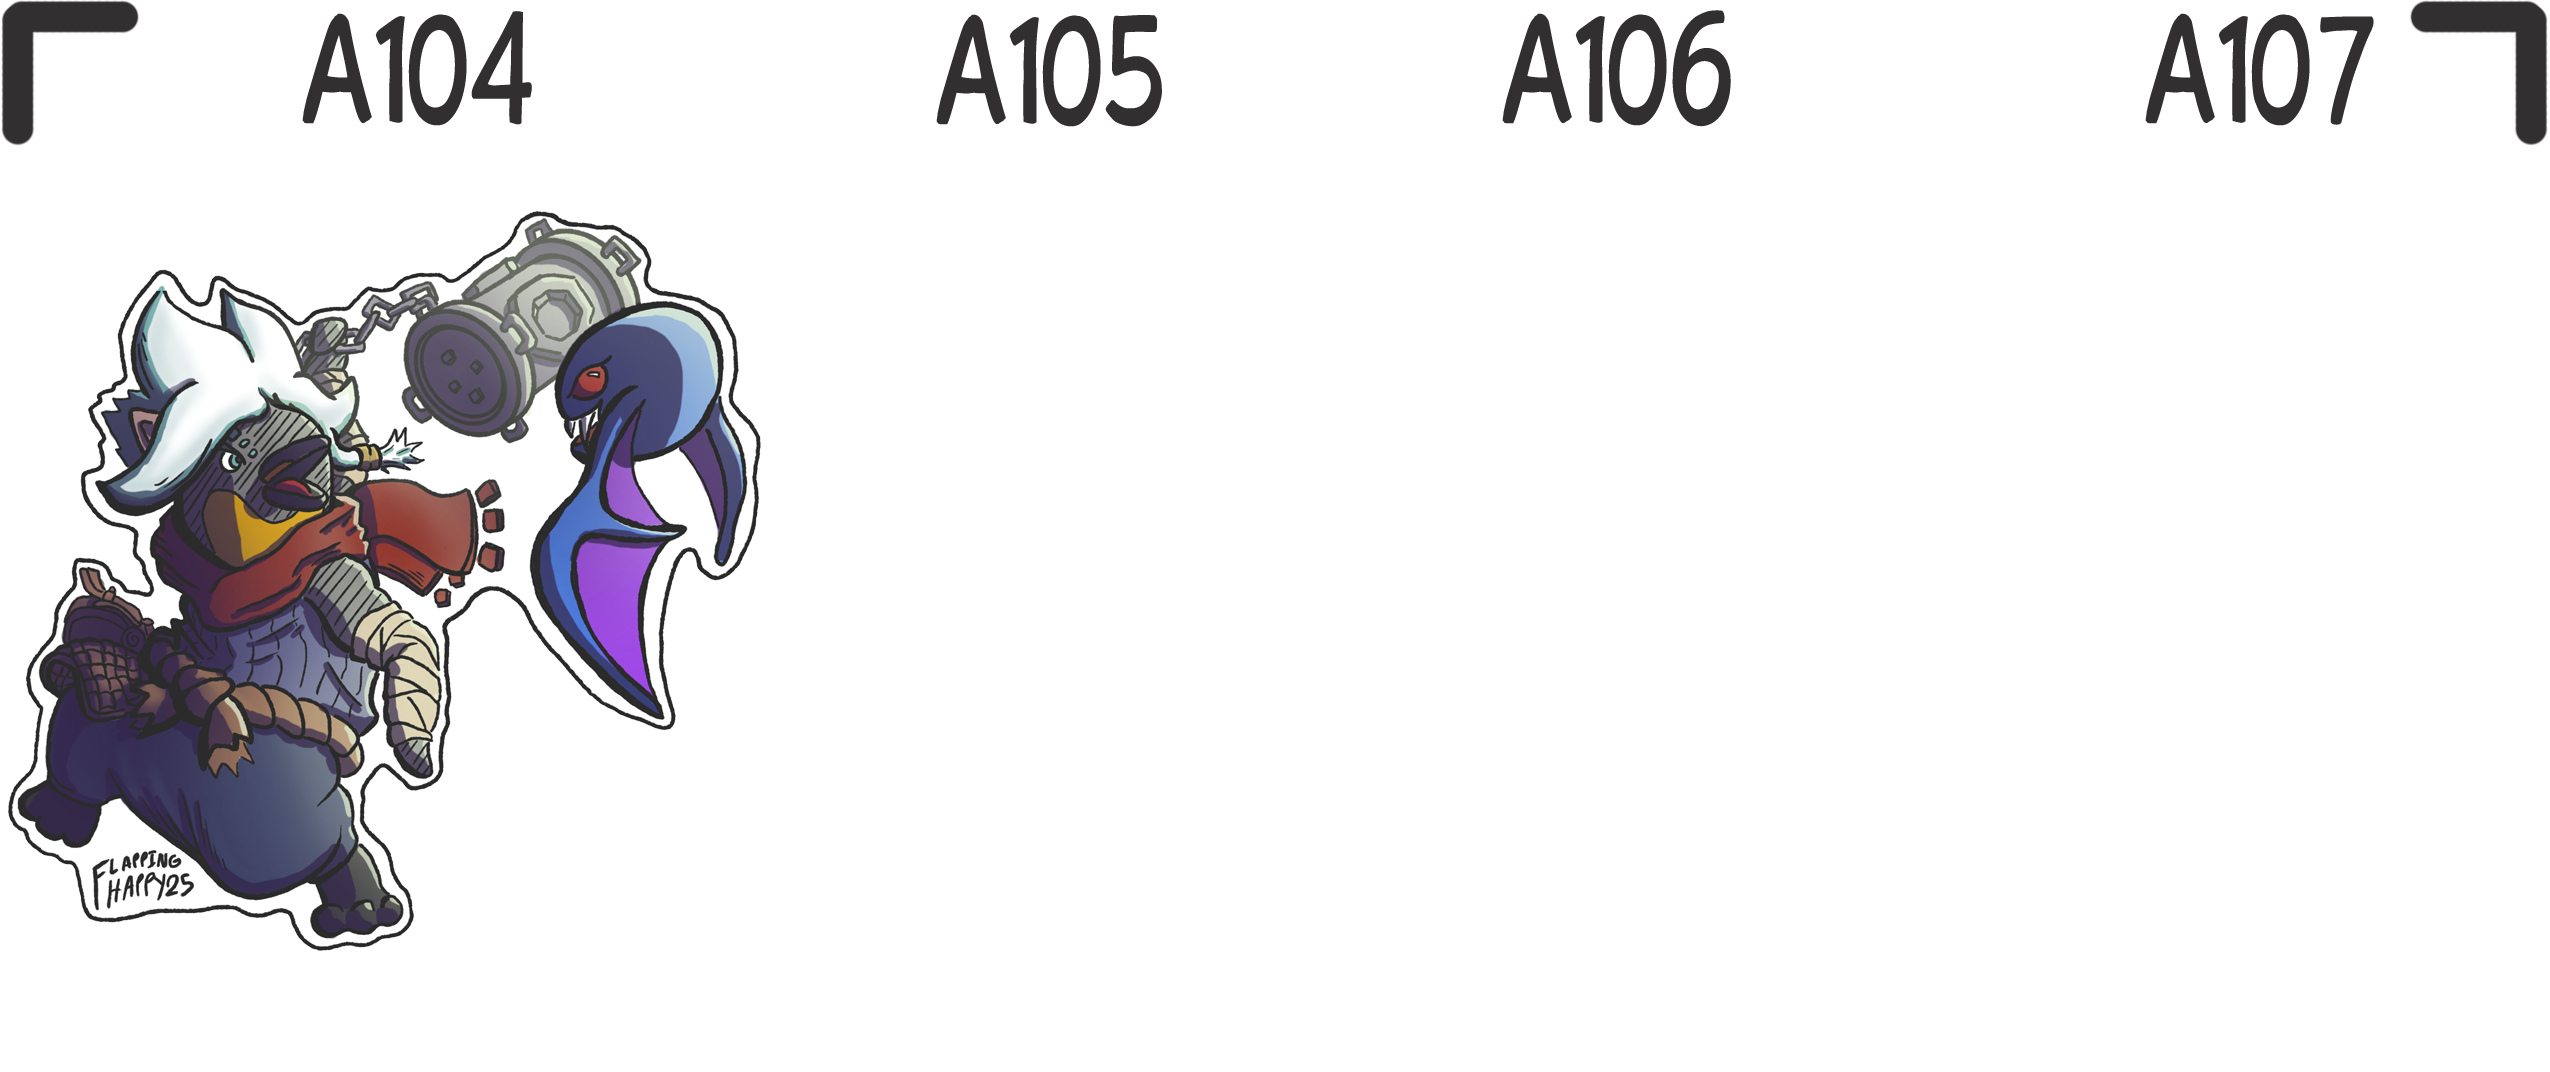
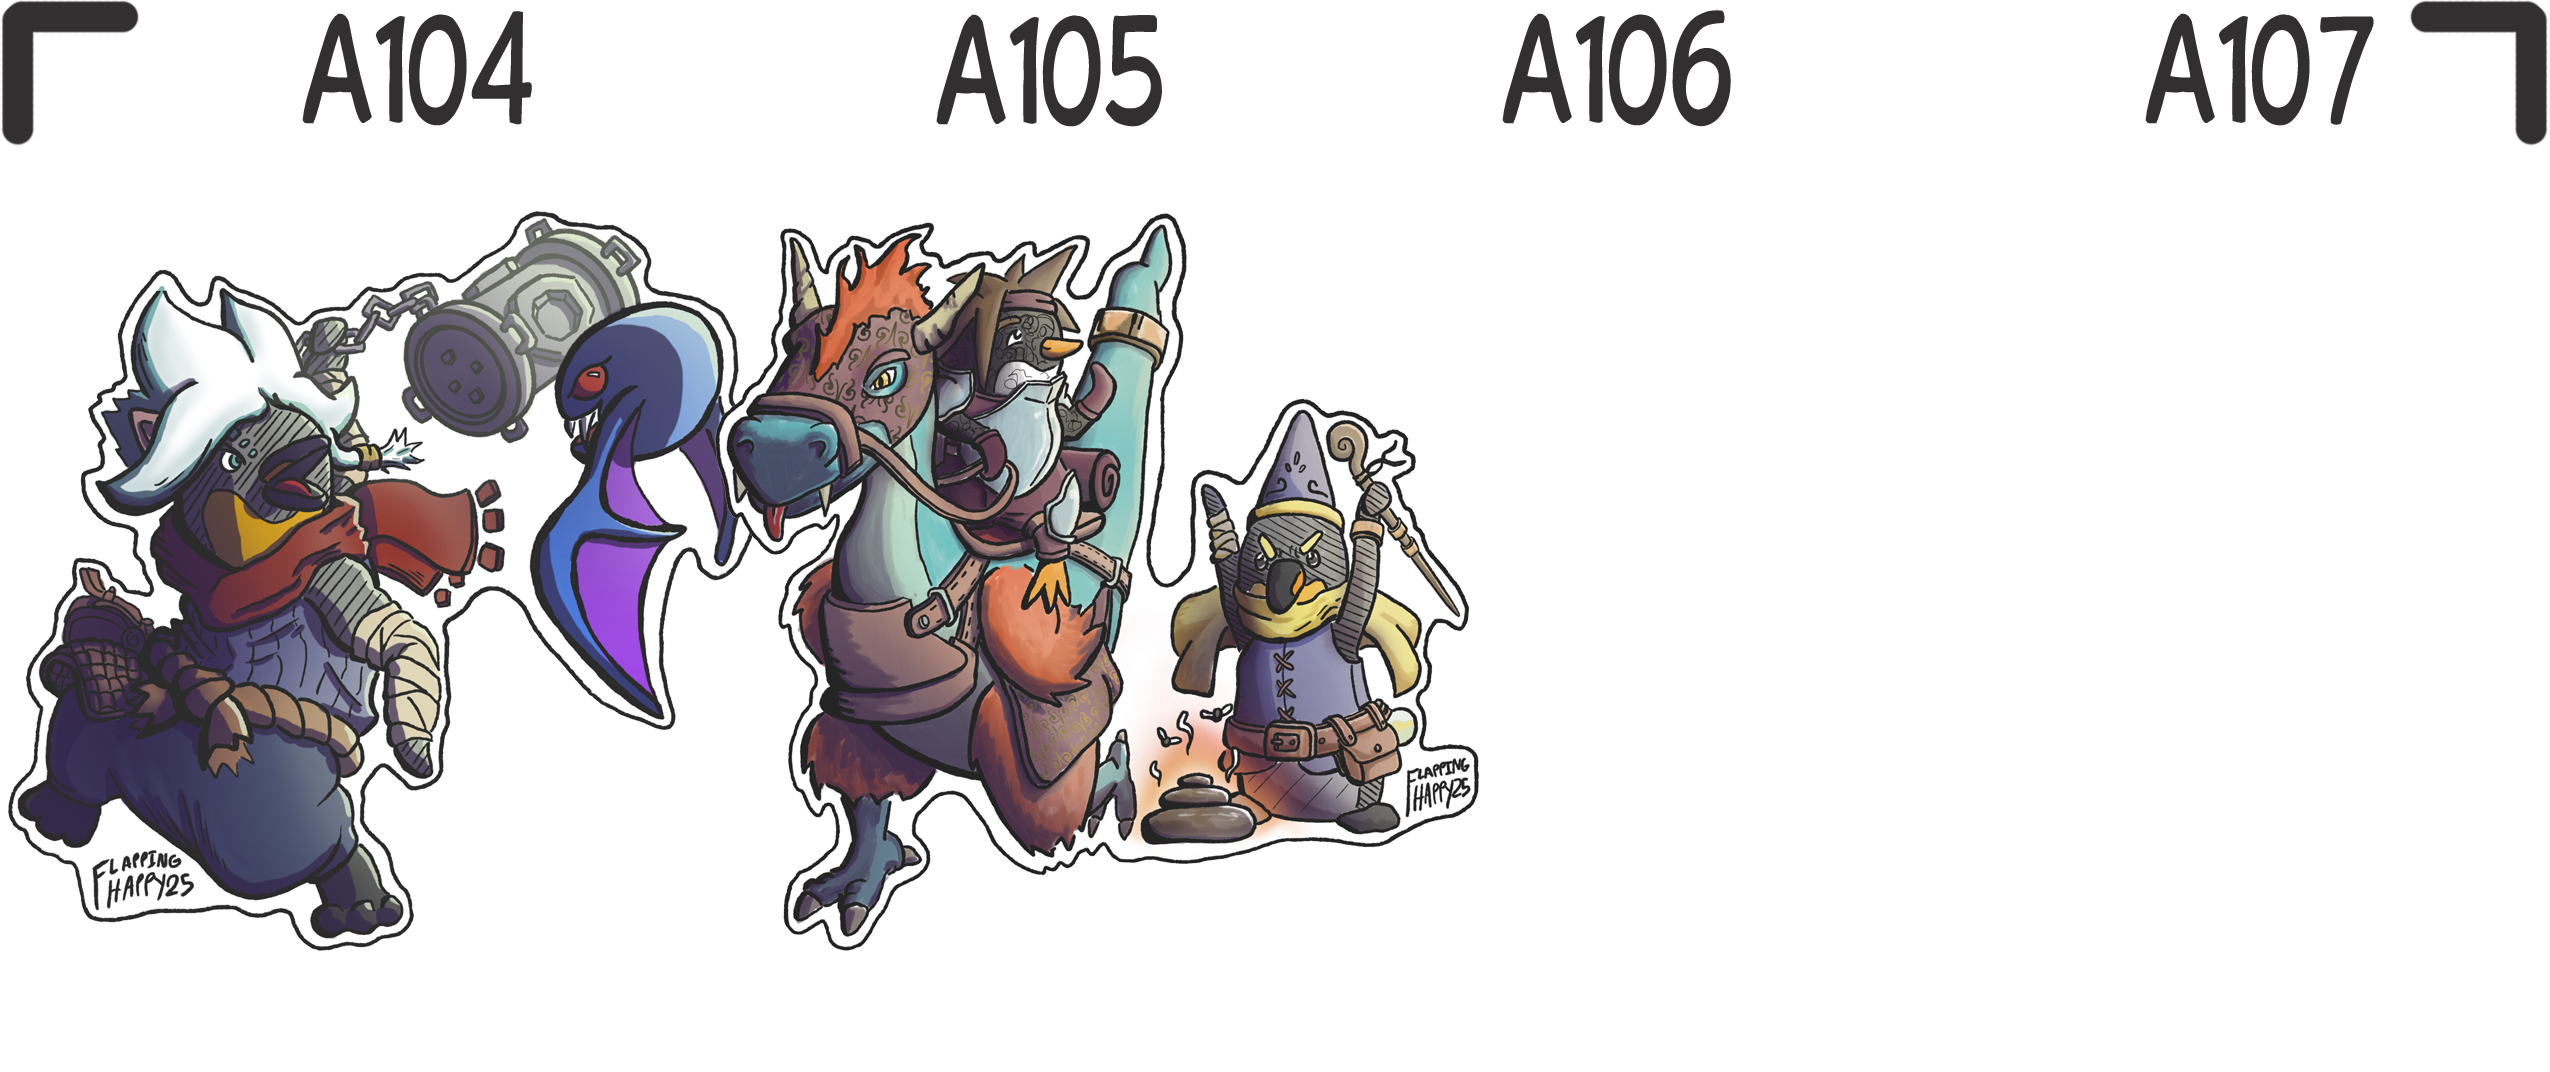
Add files via upload

Changed region(s): [[0.2788, 0.1847, 0.5886, 0.8927]]

diff --git a/shop.html b/shop.html
@@ -199,6 +199,7 @@
 						<option value="A102">A102</option>
 						<option value="A103">A103</option>
 						<option value="A104">A104</option>
+						<option value="A105">A105</option>
 					</select>
 					<br><br>
 					<button id="printArtBtn" name="PrintArt" class="formBtn"  value="PrintArt">Add to Cart</button>
@@ -381,6 +382,7 @@
 						<option value="A102">A102</option>
 						<option value="A103">A103</option>
 						<option value="A104">A104</option>
+						<option value="A105">A105</option>
 						<option value="S001">S1</option>
 						<option value="S002">S2</option>
 						<option value="S003">S3</option>
@@ -545,6 +547,7 @@
 						<option value="A102">A102</option>
 						<option value="A103">A103</option>
 						<option value="A104">A104</option>
+						<option value="A105">A105</option>
 						
 					</select>
 					<br><br>
